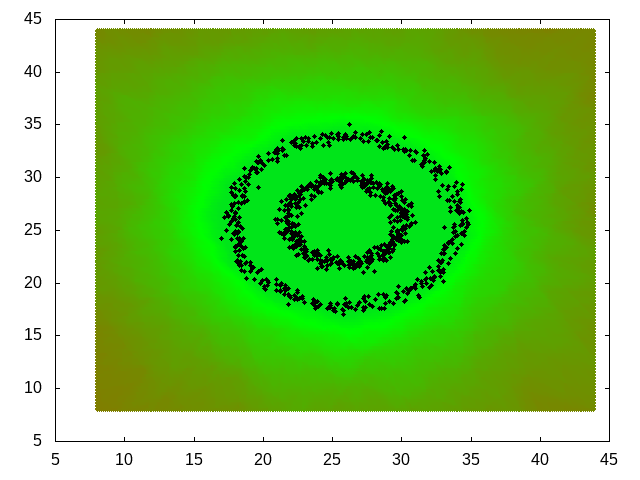
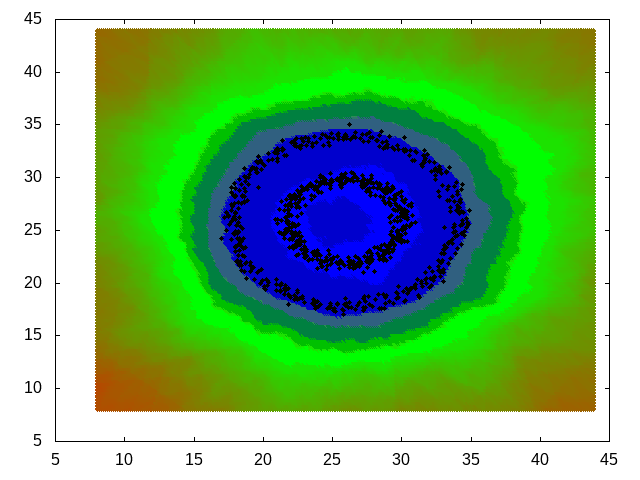
Nearest point analysis in leaf nodes finalized

diff --git a/src/learn.c b/src/learn.c
@@ -156,7 +156,7 @@ int select_forest(int value_count,char **values)
     }
 
     if(forest_count >= forest_cap) {
-       if(forest_cap == 0) forest_cap = 128;
+       if(forest_cap == 0) forest_cap = 64;
        forest_cap *= 2;
        forest = xrealloc(forest,forest_cap * sizeof(struct forest));
     }
@@ -720,12 +720,51 @@ double *make_n_vector()
     return calculate_n();
 }
 
-/*  copy samples array */
-int *copy_samples(int sample_count,int *samples)
-{
-    int *new = xmalloc(sample_count * sizeof(int));
 
-    memcpy(new,samples,sample_count * sizeof(int));
+/* scale a dim and return pointer to that
+ */
+double *scale_dimension(double *dim,struct forest *f)
+{
+    int i;
+    double range;
+    static double sd[DIM_MAX];
+
+    if(f->scale_range_idx == -1)
+    {
+        for(i = 0;i < dimensions;i++) sd[i] = dim[i];
+    } else
+    {
+        range = f->max[f->scale_range_idx] - f->min[f->scale_range_idx];
+
+        for(i = 0;i < dimensions;i++) sd[i] = scale_double(dim[i],range,f->min[f->scale_range_idx],f->min[i],f->max[i]);
+    }
+
+    return sd;
+}
+
+/*  copy samples array for leaf node
+ *  samples are scaled if auto scale is on
+ */
+struct sample *copy_samples(int sample_count,int *samples,struct forest *f)
+{
+    int i,j;
+    double *scaled;
+    struct sample *new = xmalloc(sample_count * sizeof(struct sample));
+
+    for(i = 0;i < sample_count;i++)
+    {
+        new[i].dimension = v_dup(f->X[samples[i]].dimension);
+
+        if(auto_weigth)
+        {
+            scaled = scale_dimension(new[i].dimension,f);
+
+            for(j = 0;j < dimensions;j++)
+            {
+                new[i].dimension[j] = scaled[j];
+            }
+        }
+    }
 
     return new;
 }
@@ -751,7 +790,7 @@ int add_node(struct forest *f,struct tree *t,int sample_count,int *samples,struc
     rigth_samples = xmalloc(sample_count*sizeof(int));
 
     if(t->node_count >= t->node_cap) {
-        if(t->node_cap == 0) t->node_cap = 32;
+        if(t->node_cap == 0) t->node_cap = 16;
         t->node_cap *= 2;
         t->n = xrealloc(t->n,t->node_cap*sizeof(struct node));
     }
@@ -761,7 +800,6 @@ int add_node(struct forest *f,struct tree *t,int sample_count,int *samples,struc
 
     t->node_count++;
 
-    this->level = heigth;
     this->sample_count = sample_count;
     this->samples = NULL;
 
@@ -807,14 +845,8 @@ int add_node(struct forest *f,struct tree *t,int sample_count,int *samples,struc
     {
         if (nearest && f->avg_sample_dist > 0.0)
         {
-            this->samples = copy_samples(sample_count,samples);  // copy samples for nearest distance calculation, c is calculated using the distance to nearest sample
-        } else
-        {
-            this->sample_c = c(this->sample_count);
-        }
-    } else
-    {
-        this->sample_c = 0;
+            this->samples = copy_samples(sample_count,samples,f);  // copy samples for nearest distance calculation, c is calculated using the distance to nearest sample
+        } 
     }
 
     free(left_samples);
@@ -877,6 +909,8 @@ void train_one_forest(int forest_idx)
     if(!f->X_count) return;
 
     if(f->dim_density == NULL) f->dim_density = xmalloc(dimensions * sizeof(double));
+    
+    if(auto_weigth) f->scale_range_idx = find_weigth_scale_idx(f->min,f->max);              // find larges attribute range
 
     volume = 1.0;
 
@@ -887,16 +921,27 @@ void train_one_forest(int forest_idx)
 
         f->avg[i] /= (double) f->X_count;              // turn to average
         
-        if(f->max[i] > f->min[i]) volume *= f->max[i] - f->min[i];
+        if(auto_weigth && f->scale_range_idx > -1)  // if auto scaling, then the distance calculation is scaled too
+        {
+            if(f->max[f->scale_range_idx] > f->min[f->scale_range_idx]) volume *= f->max[f->scale_range_idx] - f->min[f->scale_range_idx];
+        } else
+        {
+            if(f->max[i] > f->min[i]) volume *= f->max[i] - f->min[i];
+        }
     }
 
-    f->avg_sample_dist = sqrt(dimensions) * volume / ((f->X_count < samples_max) ? f->X_count : samples_max);   // Average sample distance / tree, distance is approximated with sqrt(dimensions)
+    // Calculate the average distance from evenly distributed point to closest points in a hypercube. 
+    // This is estimated by dividing the volume by sample count and taking dimensions root, which yields the side length of a cube around 
+    // evently distributed points.
+    // Side length is multiplyed by sqrt(dimensions / 1.5 + 1 / (3 * dimensions))  in order to get app. average distance to all touching (nearest) points.
+    // sqrt(dimensions / 1.5 + 1 / (3 * dimensions)) is found to be quite good approximation when comparing real avg. distances to square root of the dimension (dimensions 1-19)
+    
+    f->avg_sample_dist = sqrt((double) dimensions / 1.5 + 1.0 / (3.0 * (double) dimensions)) *
+                         pow(volume / (double) ((f->X_count < samples_max) ? f->X_count : samples_max),1.0 / (double) dimensions);    
 
     if(f->filter) return;
     
     if(f->t == NULL) f->t = xmalloc(tree_count * sizeof(struct tree));
-
-    if(auto_weigth) f->scale_range_idx = find_weigth_scale_idx(f->min,f->max);              // find larges attribute range
 
     f->X_current = ri(0,f->X_count - 1);           // start at random point
 

diff --git a/src/analyze.c b/src/analyze.c
@@ -84,21 +84,34 @@ void populate_dimension(double *d,char **values,int value_count)
 
 /* Search the nearest training sample for a analyzed point a
    returns the shortest distance
+
+   Scale the a if auto scaling is in use
  */
-double nearest_distance(double *a, int sample_count,int *samples,struct sample *X)
+double nearest_distance(double *a, int sample_count,struct sample *samples,struct forest *f)
 {
     int i;
-    double d,distance;
+    double *dim;
+    double d,distance; 
 
-    distance = v_dist(a,X[samples[0]].dimension);
+    if(auto_weigth)
+    {
+        dim = scale_dimension(a,f);
+    } else
+    {
+        dim = a;
+    }
+
+    distance = v_dist(dim,samples[0].dimension);
 
     for(i = 1;i < sample_count;i++)
     {
-        d = v_dist(a,X[samples[i]].dimension);
-        if(d == 0.0) return d;
+        if(distance == 0.0) break;
+
+        d = v_dist(dim,samples[i].dimension);
+
         if(d < distance) distance = d;
     }
-
+    
     return distance;
 }
 
@@ -108,7 +121,7 @@ double nearest_distance(double *a, int sample_count,int *samples,struct sample *
  *
  * if nearest is true the shortes distance to node samples is calculated.
  * The distance is used to adjust node sample count and node sample c value is recalculed
- * Shortest the distance compared to forest average, the larger adjusted sample_cout is used 
+ * Shorter distance compared to forest average, the larger adjusted sample_count is used 
  *
  * MIN_REL_DIST is used to limit adjustment divisor to 0.1
  */
@@ -122,9 +135,9 @@ double search_last_node(struct forest *f,int this_idx,struct node *n,double *dim
     {
         if(nearest && f->avg_sample_dist > 0.0)
         {
-            return (double) heigth + c((double) this->sample_count / (MIN_REL_DIST + nearest_distance(dimension,this->sample_count,this->samples,f->X) / f->avg_sample_dist));
+            return (double) heigth + c((double) this->sample_count / (MIN_REL_DIST + nearest_distance(dimension,this->sample_count,this->samples,f) / f->avg_sample_dist));
         }
-        return (double) heigth + this->sample_c;
+        return (double) heigth + c(this->sample_count);
     }
 
     if(wdot(dimension,this->n,f->scale_range_idx,f->min,f->max) < this->pdotn)
@@ -178,7 +191,7 @@ double _score(int forest_idx,double *dimension)
  * The  largest score is returned
  * Number of tested dimensions is limited by LIMIT_DIM for performance reasons
  */
-#define MAX_DIM_VALUE (DBL_MAX / 1e+40)
+#define MAX_DIM_VALUE (1e+100)
 #define pwrtwo(x) (1 << (x))
 #define LIMIT_DIM 8
 

diff --git a/src/ceif.c b/src/ceif.c
@@ -58,10 +58,10 @@ int samples_max = 256;            // max samples / tree
 int max_total_samples = 0;        // limit for samples_total, if zero use samples_max * trees
 int samples_total;                // max samples / forest
 char input_separator = ',';       // input separator for csv data
-char category_separator = ';';       // separator for category values
+char category_separator = ';';    // separator for category values
 char label_separator = '-';       // separator for category values
-int header = 0;                         // input data has a header row to skip
-double outlier_score = 0.75;            // outlier score
+int header = 0;                   // input data has a header row to skip
+double outlier_score = 0.5;      // outlier score
 double auto_score_factor = 5.0;   // How much to expand sample set when determining the auto score, larger value yields larger auto score
 int decimals = 6;                 // Number of decimals when printing and saving dimension data
 int unique_samples = 0;           // accept only unique samples, in some cases this yields better results
@@ -70,7 +70,7 @@ char list_separator = ',';         // seprator for dimension and average values 
 int n_vector_adjust = 0;        // should n vector to be adjust among data set
 int aggregate = 0;              // should data values to be aggregated when adding new data to forest
 double average_score_factor = 1.0; // sample set average score will by adjust by this, average +=  stddev * average_score_factor
-int scale_score = 0;               // should outlier scores be scaled between foretsts, scaled score is between 0..1
+int scale_score = 1;               // should outlier scores be scaled between foretsts, scaled score is between 0..1
 int nearest = 1;                // the shortest distance of analyzed point to nearest sample is calulated in leaf nodes. 
 
 /* User given strings for dim ranges */

diff --git a/src/ceif.h b/src/ceif.h
@@ -56,12 +56,10 @@ struct sample
 
 struct node
 {
-    int level;              // level count;
     int sample_count;       // number of samples
-    int *samples;           // samples index array for this node
+    struct sample *samples; // samples array for this node, samples are scaled if auto scale is on
     double *n;               // random normal vector having dimensions count of coordinates
     double pdotn;           // calculate p dot n for performance issues
-    double sample_c;        // c value for the rest of samples in tree high leaves
     int left;               // first left node, -1 if not existing
     int rigth;              // first rigth node, -1 if not existing
 };
@@ -214,6 +212,8 @@ double *v_expand(double *,double *,double *,int);
 double scale_double(double,double,double,double,double);
 void v_copy(double *,double *);
 double v_dist(double *,double *);
+double *scale_dimension(double *,struct forest *);
+
 
 
 /* analyze.c prototypes */

diff --git a/src/file.c b/src/file.c
@@ -393,6 +393,11 @@ print_forest_info(FILE *outs)
             }
         }
 
+        if(nearest)
+        {
+            _3P("Average%ssample point distance for a single tree: %f\n",auto_weigth ? " scaled " : " ",f->avg_sample_dist);
+        }
+
         tmp = localtime(&f->last_updated);
         if(tmp != NULL)
         {

diff --git a/docs/tweaking.md b/docs/tweaking.md
@@ -32,7 +32,8 @@ Now you have the anomaly score map in file 'pic.png'. Commands explained:
 ### Results
 
 #### Extended isolation forest with revised algorithm
-Following table presents some score maps using anomaly scores 0, 0.5, 0.5s (with scaling), max and average score. Max score is calculated using the sample value having larges anonaly score. Average score is the sample average score adjusted by standard deviation. Sample values are printed using black.
+Following table presents some score maps using anomaly scores 0, 0.5, 0.5s (with scaling), max and average score. 
+Max score is calculated using the sample value having larges anonaly score. Average score is the sample average score adjusted by standard deviation. Sample values are printed using black.
 Outlier area is printed using color and non outlier are is white.
 
 
@@ -64,11 +65,11 @@ Few data lines from file circle.csv were added to square data as outliers.
 
 Command used in No outlier case:
 
-    cat square.csv | ceif -l - -W -Omax -T1 -p "%d,0x%x,%s" -o plot_data.csv
+    cat square.csv | ceif -l - -Omax -T1 -p "%d,0x%x,%s" -o plot_data.csv
 
 And command used in outlier case:
 
-    head -3 circle.csv | cat - square.csv | ceif -l - -W -Omax -T1 -p "%d,0x%x,%s" -o plot_data.csv
+    head -3 circle.csv | cat - square.csv | ceif -l - -Omax -T1 -p "%d,0x%x,%s" -o plot_data.csv
 
 Average method was run with option -x 4, because default value leaves too much samples in outlier area.
 
@@ -82,15 +83,17 @@ be slightly enlarged.
 
 #### Tricky data maps
 Here is an example of a difficult data map. Two nested circles causes problems because there are adjacent inlier and outlier areas and subareas of the algorithm tend to span over both areas. 
+The effect is nearest training data point distance analysis is clearly seen here.
 
 | Case | Two circles |
 |---|---|
 |Data map|![](pics/2circle.png)|
-|-O 0|![](pics/2circle_O0.png)|
-|-O 0.5|![](pics/2circle_O05.png)|
-|-O max|![](pics/2circle_Oauto.png)|
+|-O 0s and NEAREST 0|![](pics/2circle_O0.png)|
+|-O 0s and NEAREST 1|![](pics/2circle_O0n1.png)|
+|-O 0.21s and NEAREST 0|![](pics/2circle_O21sn0.png)|
+|-O 0.21s and NEAREST 1|![](pics/2circle_O21sn1.png)|
 
-It is hard to get two outlier circles inside right. There are no clear boundaries, selecting outlier score is not a simple task. 
+It is hard to get two outlier circles inside right without nearest training point analysis. the caveat is that the analysis time with nearest analysis gets longer.
 
 ### Saving and updating forest data
 The result of training phase can be saved to file to be used in later analysis. Data can also be updated with new training data. 
@@ -103,9 +106,7 @@ In following example a square map is updated with a small blob:
 
 Training and saving the square to file square.ceif:
 
-    ceif -l square.csv -Omax -W -w square.ceif 
-
-Using the option -W for dimension auto scaling. It is good to use in cases when the new data is unknown and can have significally larger values than old data. 
+    ceif -l square.csv -Omax -w square.ceif 
 
 Updating the square.ceif with small blob:
 
@@ -177,6 +178,7 @@ are printed with black color.
 #### No scaling
 If training dataset has dimension attribute value ranges with significant differences then the extended isolation forest method causes the attributes having smaller range values
 to yield poor results. This is due to the extended isolation forests dot product. The small scale attributes lose their significance if other attributes have much larger absolute values.
+As default ceif scales the dimension values, this can be disable by rc-file option AUTO_SCALE.
 
 In this example a data set having long line shape is used. Training dataset has two attributes having ranges 5...117 and 100 000...2 000 000. The second attribute is much larger that the first. 
 If a test data set is generated without dimension scaling the results shows that there is no clear border X attribute test values. All X values are considered equal:
@@ -189,16 +191,16 @@ The data points having score value 0.65 or larger are printed, note the scale of
 
 the whole X range is considered to have score less than 0.65. This probably not the result which was expected.
 
-#### Scale with option -W
-Running again with option -W:
+#### Run with scaling 
+Running again with rc-file option "NEAREST 1" (1 is the default value).
 
-    ceif -l Wtest.csv -T3  -p "%d,0x%x" -o plot_data.csv -O0.65 -W
+    ceif -l Wtest.csv -T3  -p "%d,0x%x" -o plot_data.csv -O0.65 
 
 Result is now better, there is clear 0.65 score range around the data line.
 
 ![](pics/lrangeW.png)
 
-The option -W causes all dimension attributes to be scaled according to the largest attribute range. In the example above the X range 5...117 is scaled 
+Values are scaled according to the largest attribute range. In the example above the X range 5...117 is scaled 
 to the Y range (100 000...2 000 000). This makes both attributes equal in score analysis.
 
 ### Using automatic outlier scores
@@ -248,7 +250,7 @@ the number of lines which had larger score that adjusted average training data s
 
 Example using square data and few lines from circle.csv as anomaly data:
 
-    ceif -l square.csv -W -w square.ceif
+    ceif -l square.csv -w square.ceif
     head -3 circle.csv | cat - square.csv | ceif -r square.ceif -a - -O1  -x4 -v "%s %S %r %h"
     0.500074 0.421726 253 3
 

diff --git a/README.md b/README.md
@@ -13,6 +13,7 @@ It has practical extensions like:
 See more documents in [docs](docs).
 
 ### Algorithm change
+#### Selection of intercept point ***p***
 The original algorithm has some problems with certain types of datasets. This is due to the selection method of random intercept point ***p***. 
 Interception ***p*** is selected from rectangular area and if data is uniformly distributed over rectangular area then all sub-spaces divided by random slopes contain sample points.
 This causes all sub-spaces to infinity to have inliers. This gives a anomaly score to be app. 0.5 for the whole space.
@@ -31,5 +32,10 @@ This has following effects:
 2. Most ***p***s tend to accumulated where the data is already at beginning of the building of trees
 
 The ***p*** selection area is effectively an enlarged sample point area and not rectangular area which can cause anomalies.
+
+#### Nearest training point distance in leaf nodes
+The relative distance between analysed point and nearest node training data point is calculated in leaf nodes.
+The absolute distance is scaled to relative distance using average sample distance in tree. If relative distance is larger
+than average then the score is reduced and if distance is smaller the score is incremented.
 
 The scale of dimension attribute values can be adjusted too, see the [tweaking document](docs/tweaking.md) for details.
